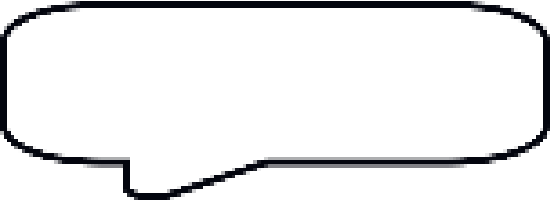
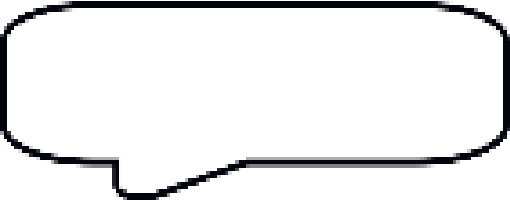
PSS157: upload new dialog box and update art list

diff --git a/ArtAsset/ArtAssetList.md b/ArtAsset/ArtAssetList.md
@@ -75,4 +75,4 @@ The gameplay area is divided into four lanes: Lanes 1 & 4 (Sidewalks, 200px) and
 | ----------------- | -------------- | ---------------------- | ----------------- |
 | **icon_success**   | 300x300        | Iris celebrating. Used in success page.    | ArtAsset\UI |
 | **Frame**    | 1920x1080        | Story background frame            | ArtAsset\UI |
-| **dialog_box**    | 550x200        | In-game dialogue box.            | ArtAsset\UI |
+| **dialog_box**    | 510x200        | In-game dialogue box.            | ArtAsset\UI |
